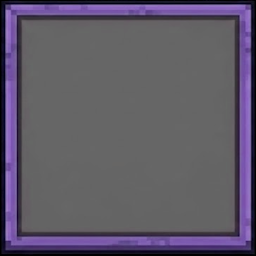
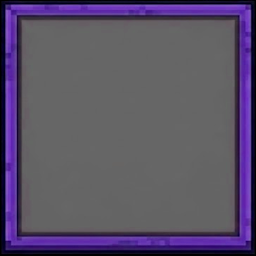
back

Changed region(s): [[0.0, 0.0, 1.0, 1.0]]

diff --git a/Frontend/styles/catalog.css b/Frontend/styles/catalog.css
@@ -98,17 +98,7 @@ html, body, img, .item-slot, .back-btn {
     height: 80vh; 
 }
 
-.item-slot {
-    background: url('./../images/back.png') no-repeat center center/135px 130px; /* Sem hoď to prázdné dřevěné pozadí karty s rámečkem */
-    display: flex;
-    justify-content: center;
-    align-items: center;
-    padding: 10px;
-    transition: transform 0.1s ease, box-shadow 0.1s ease;
-    cursor: pointer;
-    margin: 0;
-    padding: 0;
-}
+
 
 .item-slot:hover {
     transform: scale(1.03);
@@ -199,7 +189,7 @@ html, body, img, .item-slot, .back-btn {
 }
 
 .item-slot.legendary {
-    background: url('./../images/back-legendary.png') no-repeat center center/150px 150px; 
+    background: url('./../images/back-legendary1.png') no-repeat center center/150px 150px; 
     border-radius: 0px;
     display: flex;
     justify-content: center;